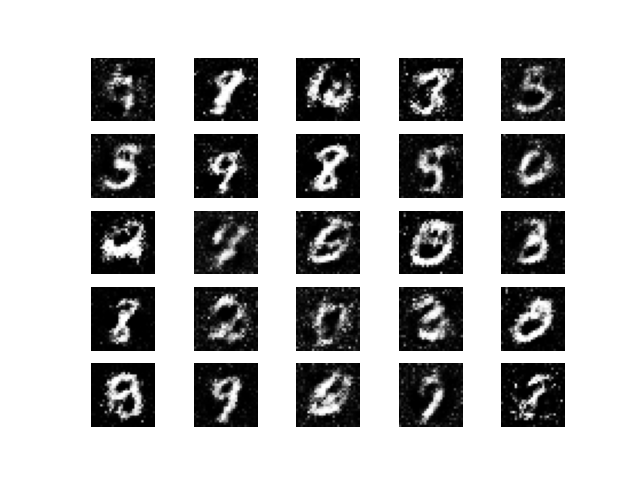
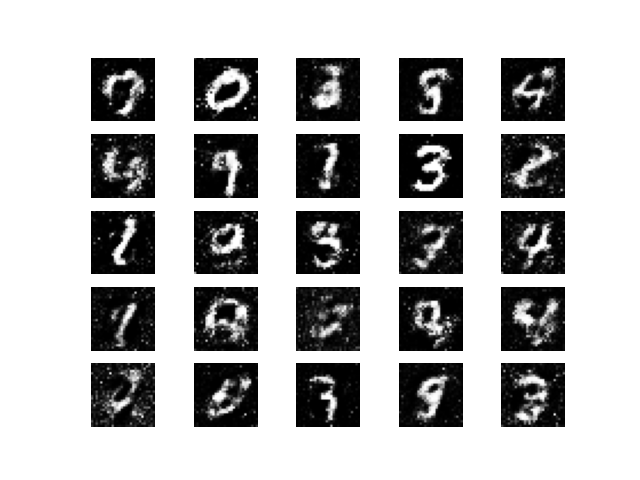
imported pkgs

diff --git a/Templates/generative adversarial networks/main.py b/Templates/generative adversarial networks/main.py
@@ -153,11 +153,5 @@ from skimage.io import imread
 a = imread('gan_images/0.png')
 plt.imshow(a)
 
-a = imread('gan_images/1000.png')
-plt.imshow(a)
-
-a = imread('gan_images/10000.png')
-plt.imshow(a)
-
-a = imread('gan_images/20000.png')
-plt.imshow(a)
+b = imread('gan_images/29800.png')
+plt.imshow(b)
